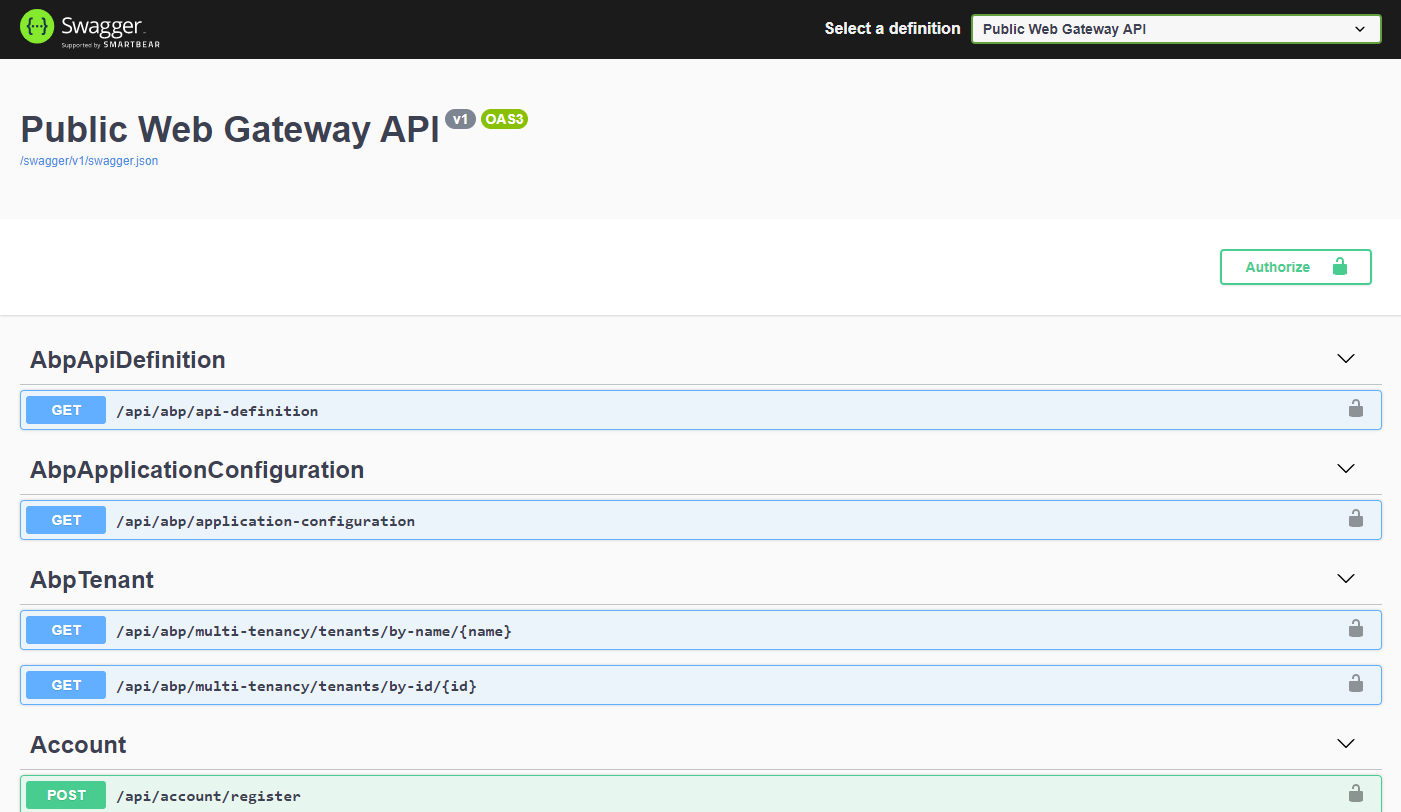
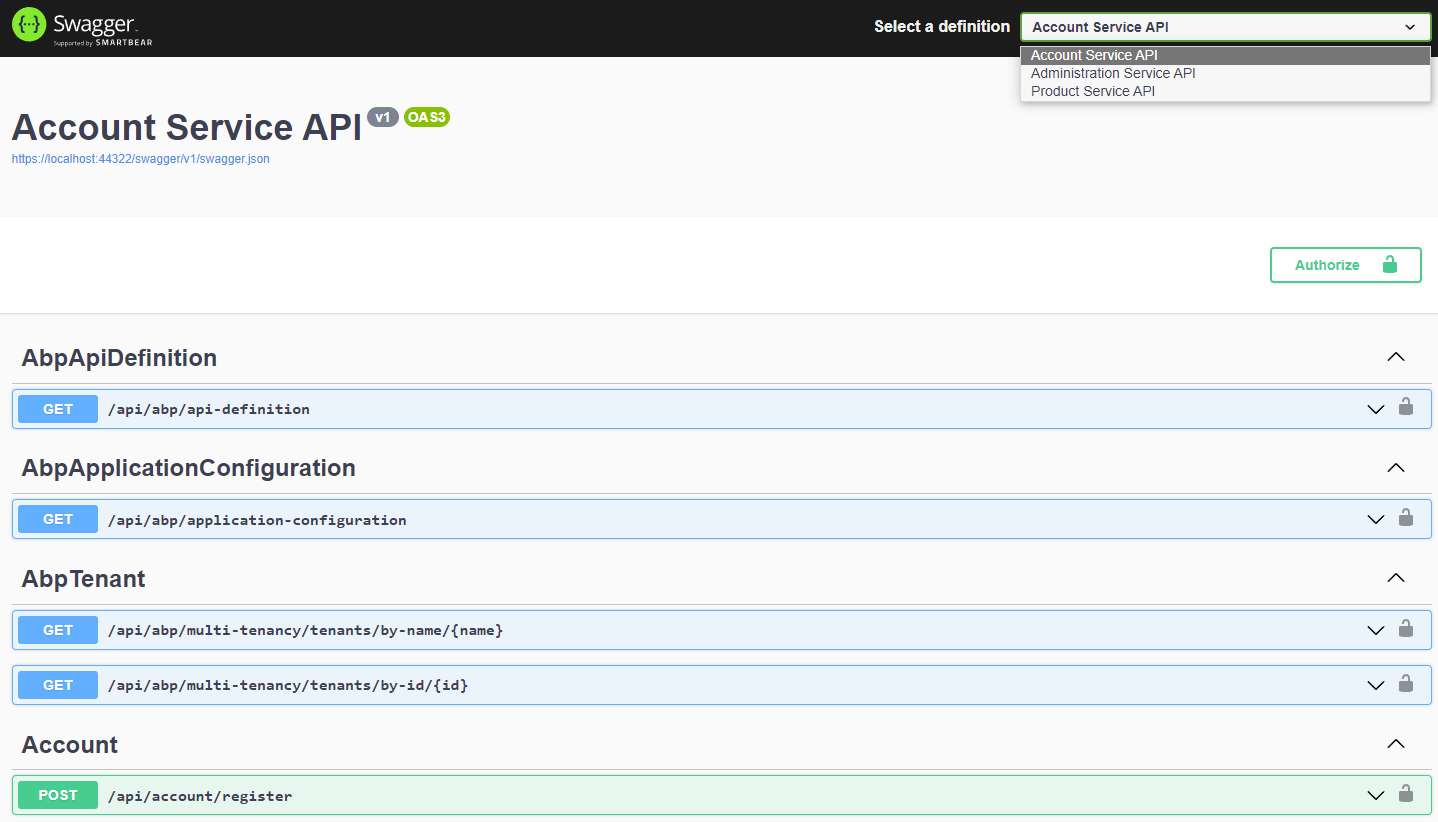
updated getting started

diff --git a/en/startup-templates/microservice/get-started.md b/en/startup-templates/microservice/get-started.md
@@ -79,11 +79,11 @@ The main *Web Application* can be an MVC (Razor Pages), Angular or Blazor applic
 
 #### Run the Web Gateway
 
-When you run the **WebGateway** application, it opens a Swagger UI to explore the HTTP APIs provided by this API Gateway:
+When you run the **WebGateway** application, it opens a Swagger UI to explore the HTTP APIs re-routed by this API Gateway:
 
 ![microservice-template-web-gateway-swagger-ui](../../images/microservice-template-web-gateway-swagger-ui.png)
 
-> API Gateways in this solution truly shows the APIs they expose. That's normally not possible with using Swagger and Ocelot. However, we have developed a solution to make this possible by using a proper layering and code sharing. Details will be covered later.
+> API Gateways in this solution shows re-routed microservices in select definition section which is located at the upper right side of the swagger ui.
 
 #### Run the *MVC (Razor Pages)* Web Application
 
@@ -121,7 +121,7 @@ The *Public Web Site* application uses the *Public Web Gateway*, so we need to r
 
 #### Run the Public Web Gateway
 
-When you run the **PublicWebGateway** application, it opens a Swagger UI to explore the HTTP APIs provided by this API Gateway:
+When you run the **PublicWebGateway** application, it opens a Swagger UI to explore the HTTP APIs re-routed by this API Gateway:
 
 ![microservice-template-web-gateway-swagger-ui](../../images/microservice-template-public-web-gateway-swagger-ui.png)
 
